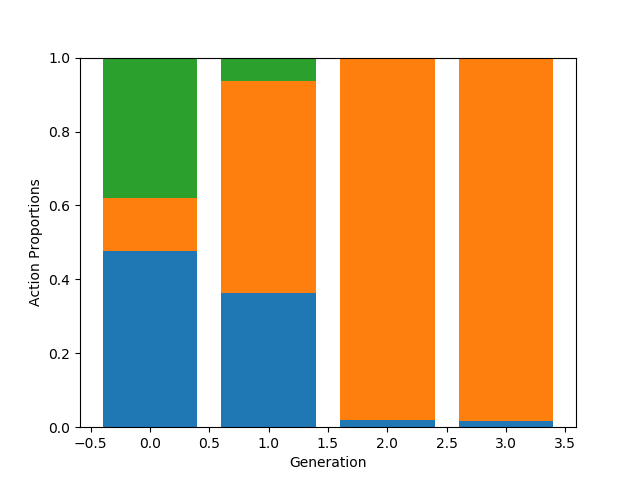
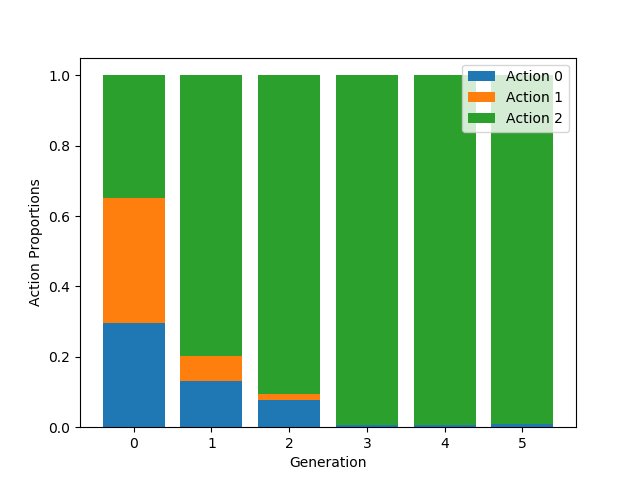
Added documentation and mutation step plot and logs

diff --git a/plotting/performance_plots.py b/plotting/performance_plots.py
@@ -4,6 +4,7 @@ import numpy as np
 
 
 def extract_reward_data(filename):
+    # Extract reward data from json file
     with open(filename, 'r') as openfile:
         output = json.load(openfile)
 
@@ -24,6 +25,7 @@ def extract_reward_data(filename):
 
 
 def extract_win_data(filename):
+    # Extract win data from json file
     with open(filename, 'r') as openfile:
         output = json.load(openfile)
 
@@ -39,6 +41,7 @@ def extract_win_data(filename):
 
 
 def extract_action_data(filename):
+    # Extract action proportion data from json file
     with open(filename, 'r') as openfile:
         output = json.load(openfile)
 
@@ -49,18 +52,42 @@ def extract_action_data(filename):
 
     for gen in performance:
         generation.append(gen["generation"])
-        actions = list(gen["actions"][0].keys())
+        actions = list(gen["actions"][0].keys()) # Get all possible actions
         gen_actions = []
 
+        # Get all action proportions for each agent in a generation
         for i in gen["actions"]:
             gen_actions.append(list(i.values()))
 
+        # Get mean action proportions per generation across all agents
         action_proportions.append((np.mean(gen_actions, axis=0)))
 
     return generation, actions, action_proportions
 
 
+def extract_mutation_data(filename):
+    # Extract mutation data from json file
+    with open(filename, 'r') as openfile:
+        output = json.load(openfile)
+
+    performance = output["performance"]
+    generation = []
+    min_mutation_step = []
+    max_mutation_step = []
+    average_mutation_step = []
+
+    for gen in performance:
+        generation.append(gen["generation"])
+        mutation_steps = gen["mutation_steps"]
+        min_mutation_step.append(np.min(mutation_steps))
+        max_mutation_step.append(np.max(mutation_steps))
+        average_mutation_step.append(np.average(mutation_steps))
+
+    return generation, average_mutation_step, min_mutation_step, max_mutation_step
+
+
 def plot_average_rewards(filename):
+    # Plot average rewards across generations, including the minimal and maximal rewards per generation
     generation, average_reward, min_reward, max_reward = extract_reward_data(filename)
     fig, ax = plt.subplots()
     ax.plot(generation, average_reward)
@@ -72,6 +99,7 @@ def plot_average_rewards(filename):
 
 
 def plot_cumulative_rewards(filename):
+    # Plot the cumulative average reward across generations
     generation, average_reward, _, _ = extract_reward_data(filename)
     cum_reward = np.cumsum(average_reward)
     fig, ax = plt.subplots()
@@ -83,6 +111,7 @@ def plot_cumulative_rewards(filename):
 
 
 def plot_average_wins(filename):
+    # Plot the average number of wins per generation
     generation, average_wins = extract_win_data(filename)
     fig, ax = plt.subplots()
     ax.plot(generation, average_wins)
@@ -93,6 +122,7 @@ def plot_average_wins(filename):
 
 
 def plot_action_proportions(filename):
+    # Plot the average action proportions per generation in a stacked bar plot
     generation, actions, action_proportions = extract_action_data(filename)
     action_proportions = np.asarray(action_proportions)
 
@@ -100,20 +130,42 @@ def plot_action_proportions(filename):
 
     for i in range(action_proportions.shape[1]):
         if i == 0 :
-            ax.bar(generation, action_proportions[:, i])
-            prev = action_proportions[:, i]
+            ax.bar(generation, action_proportions[:, i], label = f"Action {actions[i]}")
+            previous_action_proportions = action_proportions[:, i]
         else:
-            ax.bar(generation, action_proportions[:, i], bottom=prev)
-            prev += action_proportions[:, i]
-
+            # stack on previous data
+            ax.bar(generation, action_proportions[:, i], bottom=previous_action_proportions, label = f"Action {actions[i]}")
+            previous_action_proportions += action_proportions[:, i]
+            
+    ax.legend()
     ax.set_xlabel("Generation")
     ax.set_ylabel("Action Proportions")
     ax.set_xticks(generation, generation)
     fig.savefig("./../plots/action_proportions.png")
 
 
+def plot_mutation_reward(filename):
+    # Plot the average, minimal, and maximal mutation step per generation
+    # Also plot the average reward for comparison
+    generation, average_mutation_step, min_mutation_step, max_mutation_step = extract_mutation_data(filename)
+    generation, average_reward, _, _ = extract_reward_data(filename)
+    fig, ax = plt.subplots()
+    ax.plot(generation, average_mutation_step, label="Mutation")
+    ax.plot(generation, average_reward, label="Reward")
+    ax.legend()
+    ax.fill_between(generation, min_mutation_step, max_mutation_step, alpha = 0.1)
+    ax.set_xlabel("Generation")
+    ax.set_ylabel("Average Mutation Step/Average Reward")
+    ax.set_xticks(generation, generation)
+    fig.savefig("./../plots/average_mutation_step.png")
+
+
+# Input file
 performance_logs = "./../logs/output.json"
+
+# Plotting
 plot_average_rewards(performance_logs)
 plot_cumulative_rewards(performance_logs)
 plot_average_wins(performance_logs)
 plot_action_proportions(performance_logs)
+plot_mutation_reward(performance_logs)

diff --git a/algorithm.py b/algorithm.py
@@ -13,7 +13,7 @@ class ESAlgorithm:
         self.mutation_lr = mutation_lr # Learning rate for mutations
         self.min_mutation_step = min_mutation_step # Minimum step size for mutations
         self.initial_mutation_step = initial_mutation_step # Initial step size for mutations
-        self.filename = filename
+        self.filename = filename # Filename to save logs to
         self.iter_per_agent = iter_per_agent 
         self.max_reward = iter_per_agent * 10
 
@@ -40,10 +40,12 @@ class ESAlgorithm:
                 print(f"Agent {i+1} won {agent.wins} times (reward: {agent.reward:.3f})")
             # Print performance of current generation
             self.print_performance(gen)
+            # Log performance
             log.log_performance(self.generations, gen)
             # Generate the next generation if necessary
             if gen != n_gens:
                 self.generations[gen+1] = self.create_generation(self.generations[gen], do_mutation, do_crossover)
+        # Close log to dump log data in json file
         log.close()
 
     def run_agent(self, agent, n_iterations):

diff --git a/logger.py b/logger.py
@@ -11,16 +11,20 @@ class Logger:
         self.log = {"performance": []}
 
     def log_performance(self, gen, gen_idx):
+        # Logs performance of agents across generations
         wins = [agent.wins for agent in gen[gen_idx]]
         rewards = [agent.reward for agent in gen[gen_idx]]
         actions = [agent.get_action_proportions() for agent in gen[gen_idx]]
+        mutation_steps = [agent.mutation_step for agent in gen[gen_idx]]
         performance = {"generation": gen_idx,
                        "rewards": rewards,
                        "wins": wins,
-                       "actions": actions}
+                       "actions": actions,
+                       "mutation_steps": mutation_steps}
 
         self.log["performance"].append(performance)
 
     def close(self):
+        # Dump performance data to json file
         with open(os.path.join(self.path, self.filename), 'w') as outfile:
             json.dump(self.log, outfile, indent="  ")
